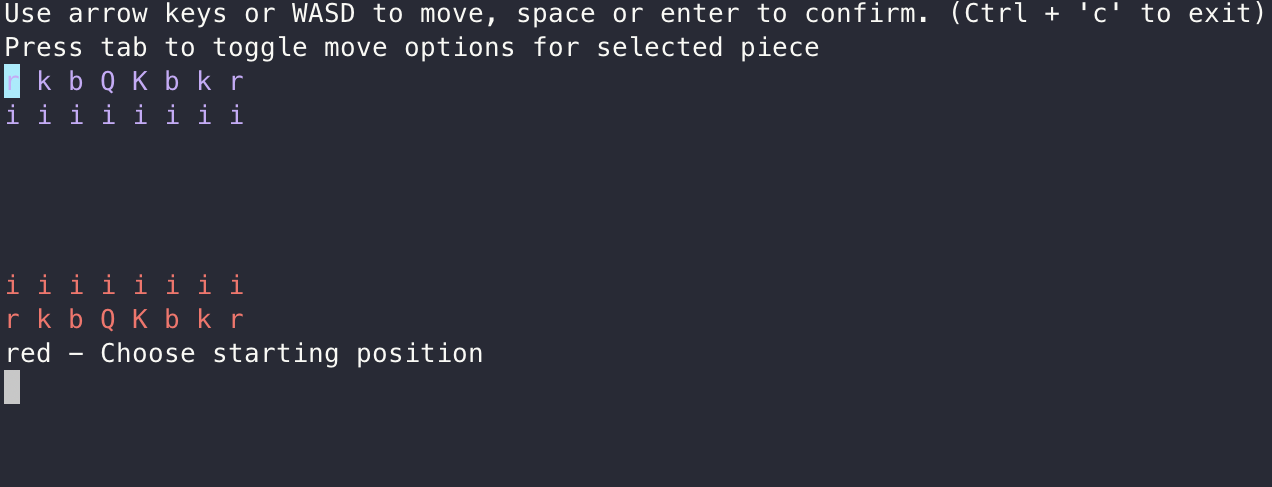
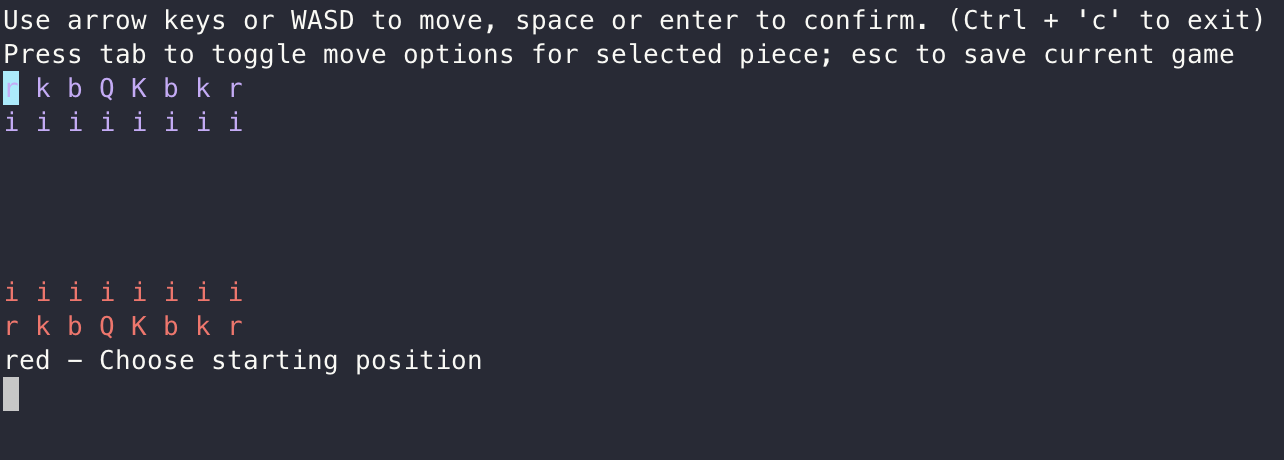
added game saving

Changed region(s): [[0.0, 0.0, 1.0, 0.3043], [0.0, 0.5783, 0.3986, 0.913]]

diff --git a/game.rb b/game.rb
@@ -1,3 +1,5 @@
+require 'yaml'
+require "byebug"
 require_relative 'board'
 require_relative 'display'
 require_relative 'HumanPlayer'
@@ -15,7 +17,9 @@ class Game
     def play
         until board.checkmate?(current_player)
             begin
-                start_pos, end_pos = players[current_player].make_move(board)
+                pos = players[current_player].make_move(board)
+                save_game() if pos == :escape;
+                start_pos, end_pos = pos
                 board.move_piece(current_player, start_pos, end_pos)
 
                 swap_turn!
@@ -43,9 +47,16 @@ class Game
     def swap_turn!
         @current_player = current_player == :red ? :blue: :red
     end
+
+    private
+    def save_game
+        puts "Enter file name to be saved under"
+        filename=gets.chomp
+        File.write(filename, self.to_yaml)
+        exit(0)
+    end
 end
 
 if $PROGRAM_NAME == __FILE__
-  game = Game.new
-  game.play
+    ARGV.count == 0 ? Game.new.play : YAML.load_file(ARGV.shift).play;
 end

diff --git a/HumanPlayer.rb b/HumanPlayer.rb
@@ -13,11 +13,13 @@ class HumanPlayer < Player
             if input==0
                 puts "#{color} - Choose starting position"
                 start_pos = @display.cursor.get_input
+                return :escape if start_pos == :escape;
                 display.reset! if start_pos
                 input +=1 if start_pos != nil
             else
                 puts "#{color} - Choose end position"
                 end_pos = @display.cursor.get_input
+                return :escape if end_pos == :escape;
                 display.reset! if end_pos
                 input +=1 if end_pos != nil
             end

diff --git a/display.rb b/display.rb
@@ -30,7 +30,8 @@ class Display
     def render
         system("clear")
         puts "Use arrow keys or WASD to move, space or enter to confirm. (Ctrl + 'c' to exit)"
-        puts "Press tab to toggle move options for selected piece"
+        puts "Press tab to toggle move options for selected piece; esc to save current game"
+        # puts "Press esc to save current game"
         self.render_board
         @notifications.each do |_key, val|
             puts val

diff --git a/board.rb b/board.rb
@@ -4,7 +4,8 @@ require_relative 'load_pieces'
 class Board
     attr_reader :board
     def initialize(new_board=true)
-        @empty = NullPiece.instance
+        @empty = NullPiece.new #(create object instead of isntance to be able to save games in YAML format)
+        # @empty = NullPiece.instance (use instance with non saving game option. Yaml doesn't work well with singleton)
         #empty board
         @board= Array.new(8) {Array.new(8,@empty)}
         

diff --git a/cursor.rb b/cursor.rb
@@ -92,6 +92,8 @@ class Cursor
     when :tab
       @toggle_move_options == false ? @toggle_move_options = true : @toggle_move_options = false;
       return nil
+    when :escape
+      return :escape
     else
       puts key
     end

diff --git a/pieces/null_piece.rb b/pieces/null_piece.rb
@@ -1,7 +1,7 @@
 require 'singleton'
 require_relative 'piece_parent'
 class NullPiece < Piece
-    include Singleton
+    # include Singleton
     attr_reader :symbol, :color
     def initialize
         @symbol= " "

diff --git a/README.md b/README.md
@@ -1,6 +1,6 @@
 # Chess
 ### Chess game project using Ruby for App Academy Full Stack Bootcamp
-<img src="images/Starting Board.png" alt="Logo" width="600">
+<img src="images/Starting Board.png" width="600">
 
 ## Installation
 1. Clone repo
@@ -10,13 +10,15 @@
 5. Play the game against yourself or with a friend using the corresponding keys!
 
 ## Features
-- Uses cursor input from keyboard to make moves.
+- Uses cursor input from keyboard to make moves
   - WASD/arrow keys to move cursor to move to position
   - Enter/space keys to select position
   - Initial position selection is marked with a cyan color, Final position selection is marked with a magenta color
- - Toggle move assist for selected piece using tab key (For those unfamiliar with chess)
+- Toggle move assist for selected piece using tab key (For those unfamiliar with chess)
  <p align="center">
-  <img src="images/Toggle Move Assist.png" alt="Logo" width="600">
+  <img src="images/Toggle Move Assist.png" width="600">
  </p>
- 
- - Game saving and computer AI player possibly in the making 😄
+
+- Use esc key to save current game (done through YAML)
+  - To run saved game, use command `ruby game.rb {saved file name}` (e.g., `ruby game.rb saved`)
+- Computer AI player possibly in the making 😄
